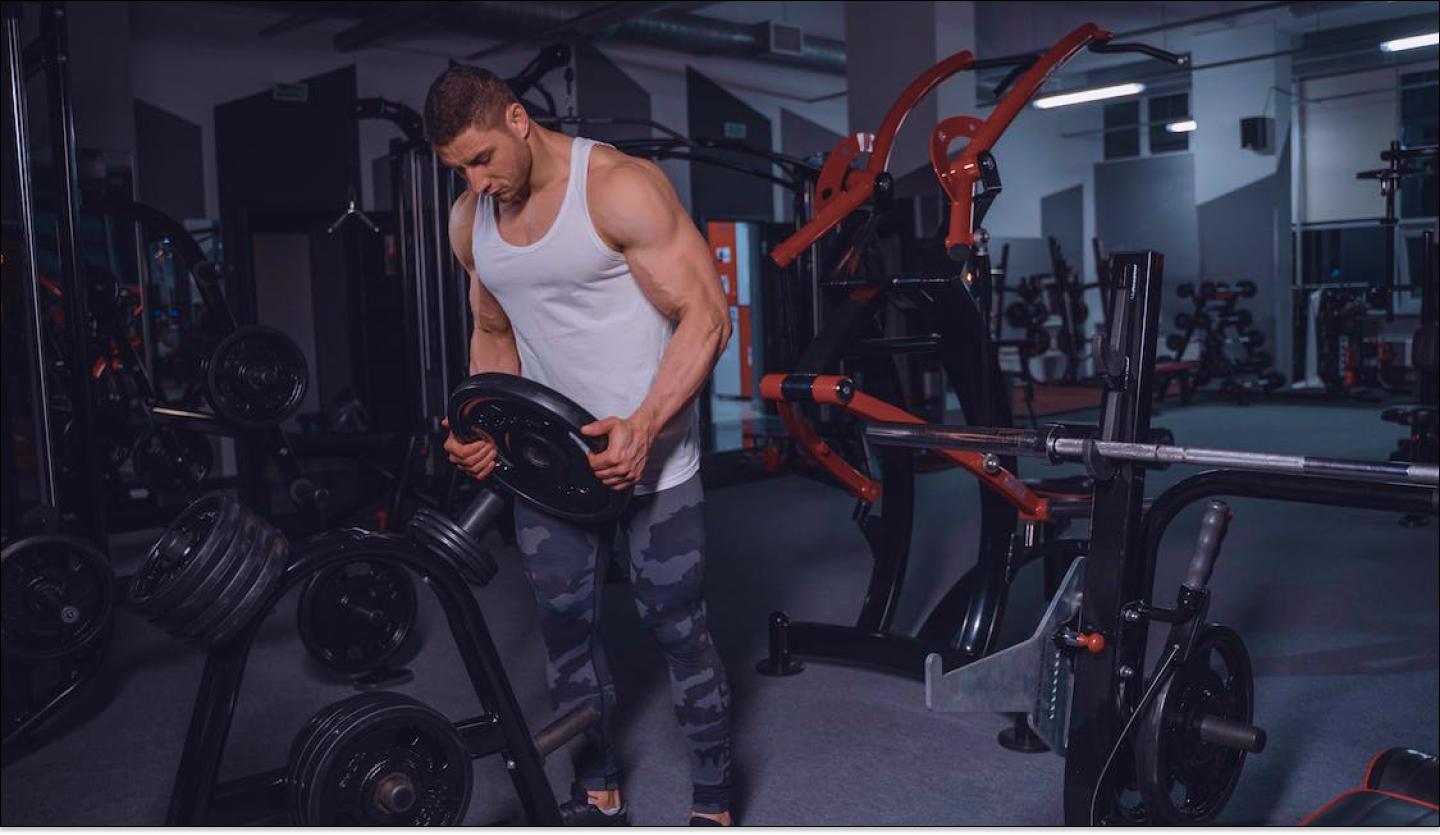
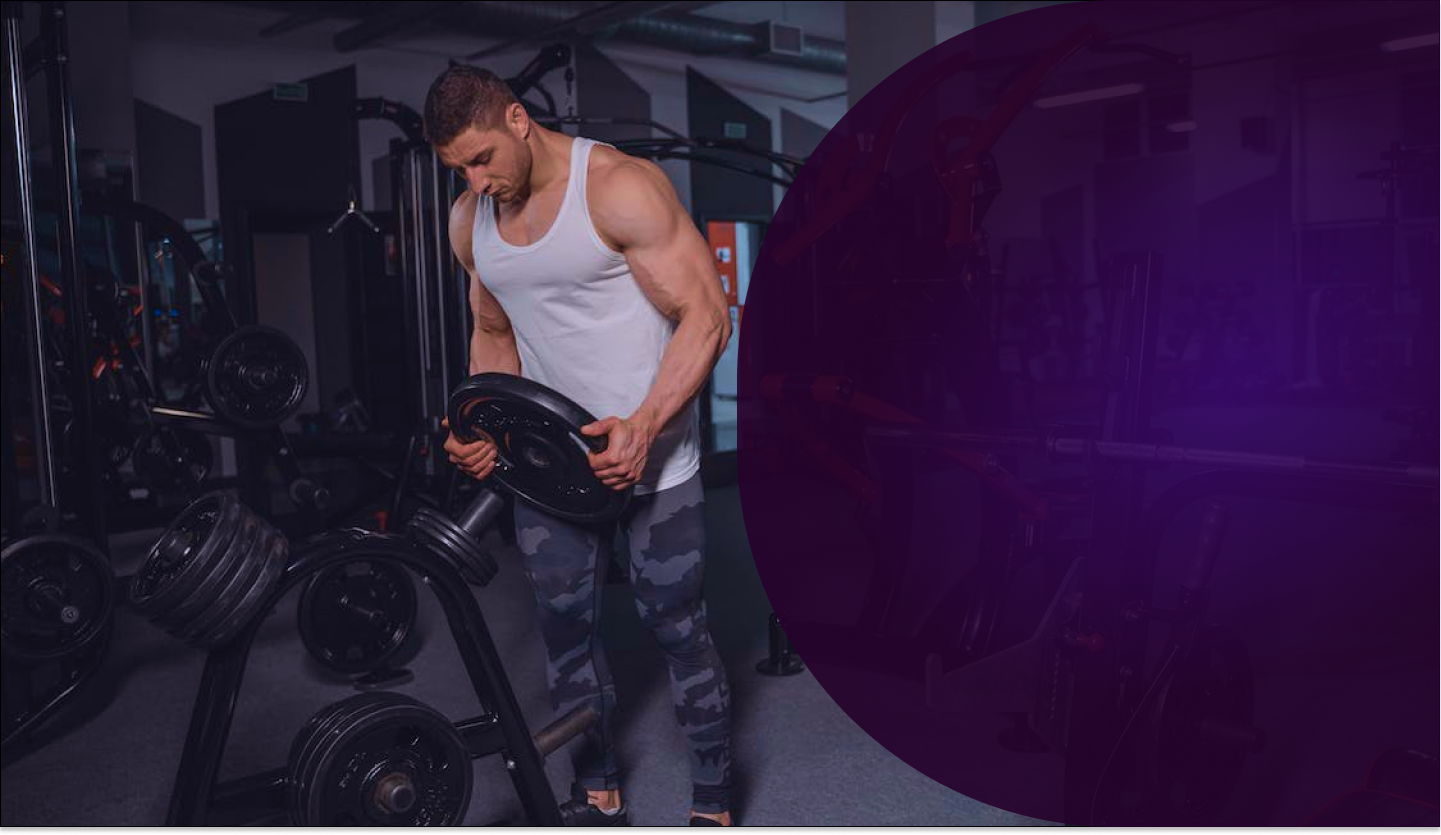
...

diff --git a/index.html b/index.html
@@ -45,9 +45,14 @@
 
     <!--home inicio-->
     <section class="home" id="home">
-      <div class="max-width">
-          <img src="img/Rectangle 2.png" alt="" srcset="">
+      <div class="container">
+        <div class="row">
+          <div class="col-8"><h1 class="inicio">GYM
+            academia perfeita 
+            para você!</h1></div>
+          <div class="col-4">col-4</div>
         </div>
+      </div>
       </section>
   
 

diff --git a/css/style.css b/css/style.css
@@ -38,7 +38,10 @@
         height: 100vh;
        
     }
-    .max-width{
-
-        margin-left: 40.3em;
-        height: 100vh;    }
+   h1{
+       color: #fffbfb;
+       font-family: Black Ops One;
+       margin-left: 20em;
+       margin-top: 5em;
+       font-weight: 10em;
+   }
